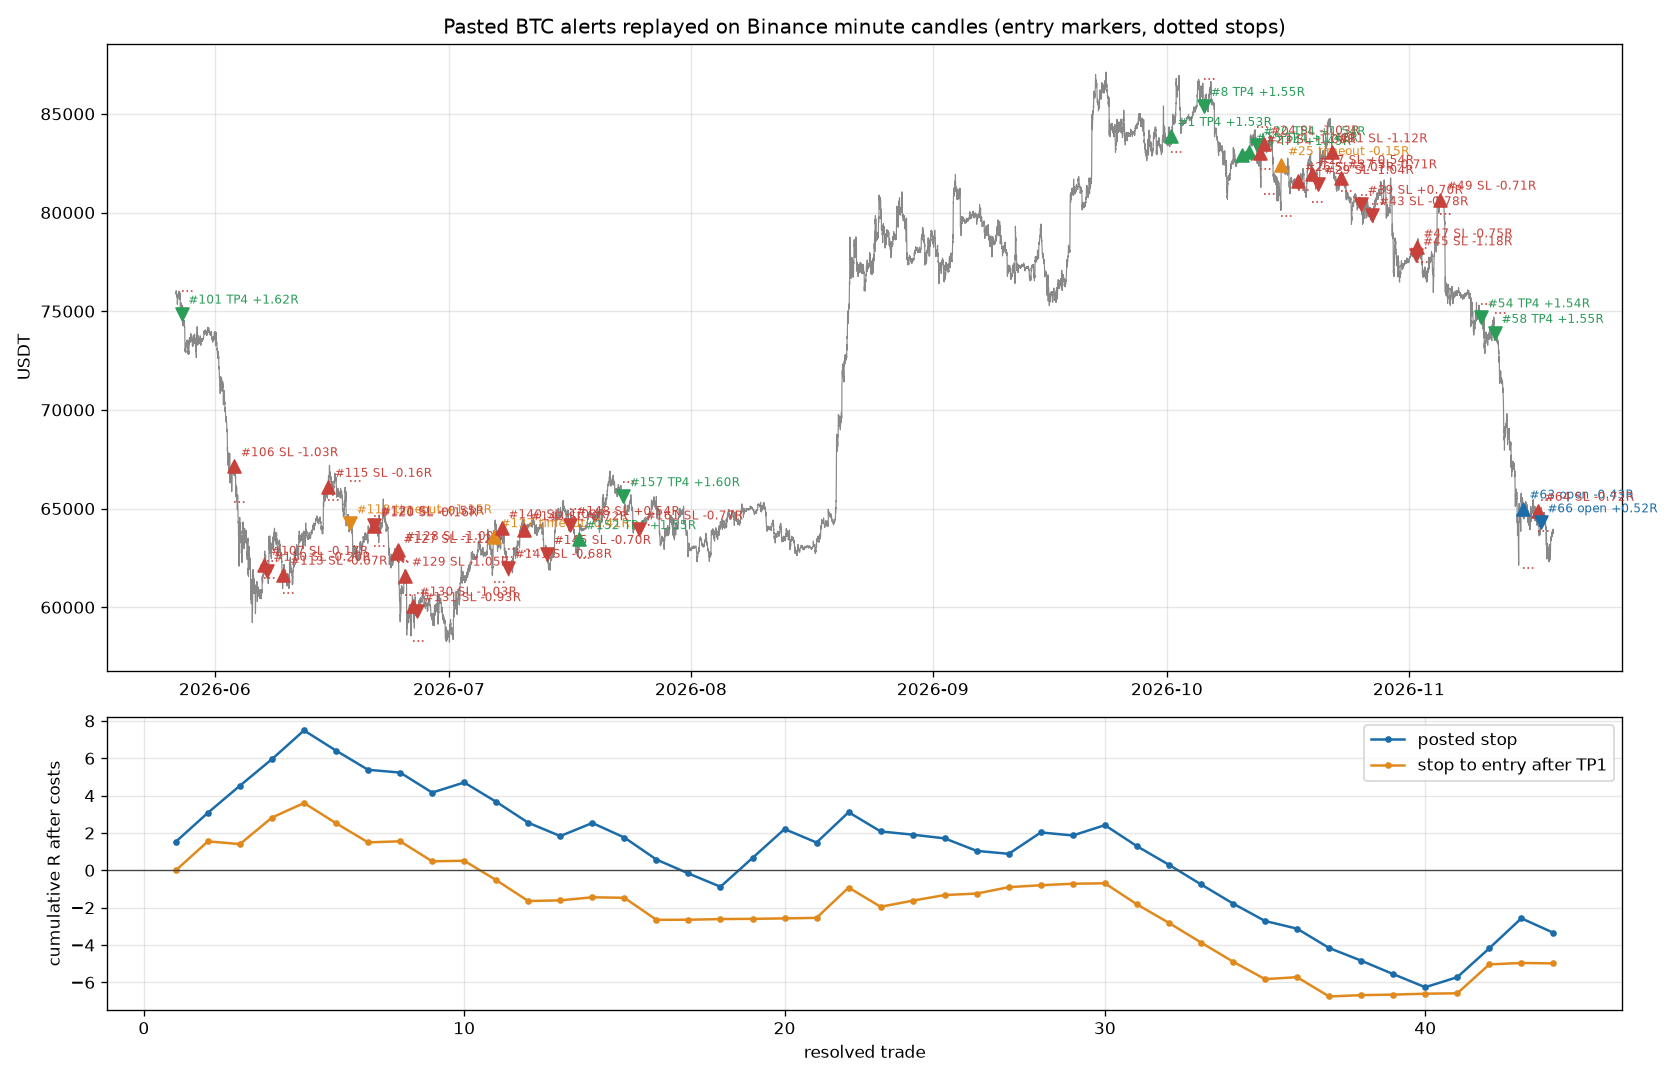
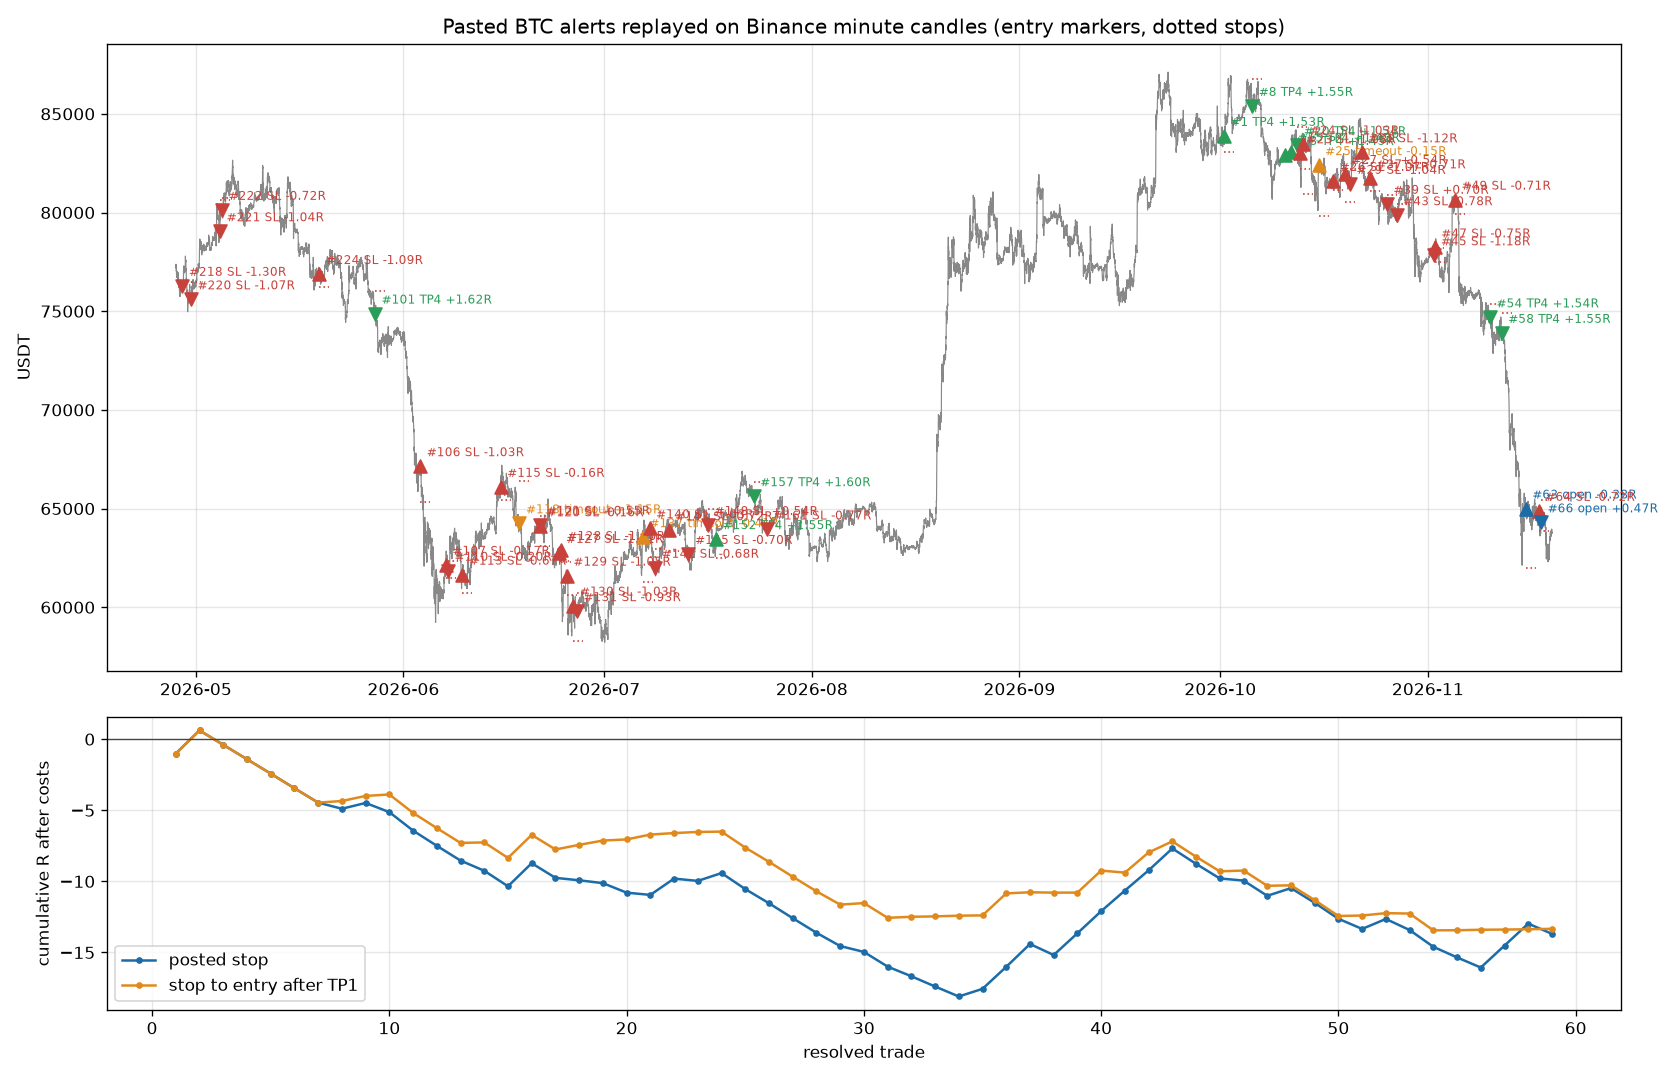
add March-May multi-coin alerts and compare exit rules with random entries

diff --git a/czar_audit.py b/czar_audit.py
@@ -15,7 +15,7 @@ CACHE = Path("data/czar")
 VALID, TIMEOUT = 24 * 3600, 7 * 86400
 MAKER, TAKER, SLIP = 2e-4, 5e-4, 1e-4
 OFFSETS = range(-6, 7)
-RESOLVED = ("SL", "BE", "TP4", "timeout")
+RESOLVED = ("SL", "BE", "TRAIL", "TP4", "timeout")
 
 
 def read(name):
@@ -38,7 +38,7 @@ def hit_stop(bar, side, level):
     return bar.low <= level if side == 1 else bar.high >= level
 
 
-def calibrate(bars, start, alerts, hits):
+def calibrate(markets, alerts, hits):
     """Share of reported hits whose level traded in the 30 minutes before the post, for each display offset."""
     by_id = {a["id"]: a for a in alerts}
     out = {}
@@ -46,6 +46,7 @@ def calibrate(bars, start, alerts, hits):
         ok = 0
         for x in hits:
             a = by_id[x["alert_id"]]
+            bars, start = markets[a["asset"]]
             side, level = (1 if a["side"] == "LONG" else -1), float(a[f"tp{x['target']}"])
             i = (stamp(x["posted_local"], h) - start) // 60
             ok += any(reached(b, side, level) for b in bars[max(0, i - 30):max(0, i + 1)])
@@ -53,8 +54,15 @@ def calibrate(bars, start, alerts, hits):
     return out
 
 
-def replay(bars, start, a, t, breakeven=False, market=False):
-    """One alert: limit entry (or market at the next open), four equal parts at the targets, stop first in shared minutes."""
+MANAGEMENT = {"posted": ((.25,) * 4, "none"), "breakeven": ((.25,) * 4, "be"), "trail": ((.25,) * 4, "step"),
+              "trim_half_be": ((.5, 1 / 6, 1 / 6, 1 / 6), "be"), "trim_half_trail": ((.5, 1 / 6, 1 / 6, 1 / 6), "step")}
+
+
+def replay(bars, start, a, t, breakeven=False, market=False, weights=(.25,) * 4, trail=None):
+    """One alert: limit entry (or market at the next open), parts closed at the four targets, stop first in shared minutes.
+
+    trail "be" moves the stop to entry after target 1; "step" moves it to entry, then target 1, then target 2."""
+    trail = trail or ("be" if breakeven else "none")
     side = 1 if a["side"] == "LONG" else -1
     entry, stop = float(a["entry"]), float(a["stop"])
     tps = [float(a[f"tp{k}"]) for k in range(1, 5)]
@@ -77,18 +85,18 @@ def replay(bars, start, a, t, breakeven=False, market=False):
         b = bars[j]
         if hit_stop(b, side, sl):
             px = min(sl, b.open) if side == 1 else max(sl, b.open)
-            exits += [(px, TAKER + SLIP) for _ in left]
-            status, left = ("SL" if sl == stop else "BE"), []
+            exits += [(weights[k], px, TAKER + SLIP) for k in left]
+            status, left = ("SL" if sl == stop else "BE" if sl == entry else "TRAIL"), []
             break
         if j == fill:
             continue  # targets count from the minute after the fill
         for k in list(left):
             if reached(b, side, tps[k]):
-                exits.append((tps[k], MAKER))
+                exits.append((weights[k], tps[k], MAKER))
                 left.remove(k)
                 best_tp = max(best_tp, k + 1)
-        if breakeven and best_tp:
-            sl = entry
+        if best_tp and trail != "none":
+            sl = entry if trail == "be" or best_tp == 1 else tps[min(best_tp, 3) - 2]
         if not left:
             status = "TP4"
             break
@@ -97,11 +105,11 @@ def replay(bars, start, a, t, breakeven=False, market=False):
             status = "open"
     if left:
         last = bars[min(end, fill + TIMEOUT // 60) - 1].close
-        exits += [(last, TAKER + SLIP) for _ in left]
-    pnl = [side * (px - price) - fee * px - MAKER * price for px, fee in exits]
+        exits += [(weights[k], last, TAKER + SLIP) for k in left]
+    pnl = sum(w * (side * (px - price) - fee * px - MAKER * price) for w, px, fee in exits)
     return dict(status=status, best_tp=best_tp, fill_utc=datetime.fromtimestamp(start + fill * 60, timezone.utc).isoformat(),
-                fill_price=price, r=mean(pnl) / risk, stop_pct=risk / entry * 100,
-                margin_return_20x_pct=mean(pnl) / price * 20 * 100)
+                fill_price=price, r=pnl / risk, stop_pct=risk / entry * 100,
+                margin_return_20x_pct=pnl / price * 20 * 100)
 
 
 def stats(rows, key):
@@ -115,12 +123,51 @@ def stats(rows, key):
                 margin_return_20x_pct_total=sum(r[f"{key}_margin_return_20x_pct"] for r in done))
 
 
+def scaled(a, price):
+    """The alert's stop and target distances re-anchored at another price, for the random baseline."""
+    k = price / float(a["entry"])
+    return {**a, **{f: str(float(a[f]) * k) for f in ("entry", "stop", "tp1", "tp2", "tp3", "tp4")}}
+
+
+def management(markets, alerts, offset, draws=40, seed=1119):
+    """Each exit rule on the alerts (limit and market entry) and on random-time market entries with the same geometry."""
+    rng, out = np.random.default_rng(seed), {}
+    picks = []
+    for a in alerts:
+        bars, first = markets[a["asset"]]
+        hi = len(bars) - (VALID + TIMEOUT) // 60
+        for j in rng.integers(0, max(hi, 1), draws) if hi > 0 else []:
+            picks.append((a, bars, first, int(j)))
+    for name, (w, trail) in MANAGEMENT.items():
+        lim, mkt = [], []
+        for a in alerts:
+            bars, first = markets[a["asset"]]
+            t = stamp(a["posted_local"], offset)
+            lim.append(replay(bars, first, a, t, weights=w, trail=trail))
+            mkt.append(replay(bars, first, a, t, market=True, weights=w, trail=trail))
+        rnd = [replay(bars, first, scaled(a, bars[j + 1].open), first + j * 60, market=True, weights=w, trail=trail)
+               for a, bars, first, j in picks]
+        def summ(rs):
+            done = [r for r in rs if r["status"] in RESOLVED]
+            x = [r["r"] for r in done]
+            boot = np.random.default_rng(seed).choice(x, (5000, len(x))).mean(1)
+            return dict(n=len(x), mean_r=mean(x), mean_r_95=np.percentile(boot, [2.5, 97.5]).tolist(),
+                        profitable_pct=100 * mean(v > 0 for v in x), tp1_pct=100 * mean(r["best_tp"] >= 1 for r in done))
+        out[name] = dict(alerts_limit=summ(lim), alerts_market=summ(mkt), random_market=summ(rnd))
+    return out
+
+
 def main():
     alerts, hits = read("alerts.csv"), read("hits.csv")
-    first = min(stamp(a["posted_local"], 6) for a in alerts) // 86400 * 86400
     now = int(datetime.now(timezone.utc).timestamp()) // 60 * 60 - 120
-    bars, _, digest = interval_data("BTC", first, now, CACHE)
-    fit = calibrate(bars, first, alerts, hits)
+    markets, digests = {}, {}
+    for coin in sorted({a["asset"] for a in alerts}):
+        times = [stamp(a["posted_local"], 0) for a in alerts if a["asset"] == coin]
+        first = (min(times) - 6 * 3600) // 86400 * 86400
+        end = min(now, (max(times) + 6 * 3600 + VALID + TIMEOUT) // 86400 * 86400 + 86400)
+        bars, _, digests[coin] = interval_data(coin, first, end, CACHE)
+        markets[coin] = bars, first
+    fit = calibrate(markets, alerts, hits)
     offset = max(fit, key=fit.get)
     reported = {}
     for x in hits:
@@ -128,11 +175,12 @@ def main():
     rows = []
     for a in alerts:
         t = stamp(a["posted_local"], offset)
+        bars, first = markets[a["asset"]]
         base, be = replay(bars, first, a, t), replay(bars, first, a, t, breakeven=True)
         mk = replay(bars, first, a, t, market=True)
         fill_t = datetime.fromisoformat(base["fill_utc"]).timestamp() if base["fill_utc"] else float("inf")
         early = sum(stamp(x["posted_local"], offset) < fill_t for x in hits if x["alert_id"] == a["id"])
-        rows.append(dict(id=a["id"], posted_utc=datetime.fromtimestamp(t, timezone.utc).isoformat(), side=a["side"],
+        rows.append(dict(id=a["id"], asset=a["asset"], posted_utc=datetime.fromtimestamp(t, timezone.utc).isoformat(), side=a["side"],
                          entry=a["entry"], stop=a["stop"], reported_max_tp=reported.get(a["id"], 0),
                          tp1_r=round(abs(float(a["tp1"]) - float(a["entry"])) / abs(float(a["entry"]) - float(a["stop"])), 3),
                          **{f"posted_stop_{k}": v for k, v in base.items()},
@@ -140,7 +188,7 @@ def main():
                          **{f"breakeven_{k}": be.get(k, 0) for k in ("status", "best_tp", "r", "margin_return_20x_pct")},
                          **{f"market_{k}": mk.get(k, 0) for k in ("status", "best_tp", "r", "margin_return_20x_pct")}))
     write_csv(DIR / "replay.csv", rows)
-    res = dict(source_sha256=digest, through_utc=datetime.fromtimestamp(now, timezone.utc).isoformat(),
+    res = dict(source_sha256=digests, through_utc=datetime.fromtimestamp(now, timezone.utc).isoformat(),
                display_offset_hours=offset, offset_fit=fit, alerts=len(rows),
                fills=sum(bool(r["posted_stop_fill_utc"]) for r in rows),
                status={s: sum(r["posted_stop_status"] == s for r in rows)
@@ -152,13 +200,16 @@ def main():
                reported_hits=len(hits), reported_hits_before_limit_fill=sum(r["reported_hits_before_limit_fill"] for r in rows),
                posted_stop=stats(rows, "posted_stop"), breakeven_after_tp1=stats(rows, "breakeven"),
                market_entry=stats(rows, "market"),
+               btc_only=stats([r for r in rows if r["asset"] == "BTC"], "posted_stop"),
+               other_coins=stats([r for r in rows if r["asset"] != "BTC"], "posted_stop"),
                costs=dict(maker=MAKER, taker=TAKER, slip=SLIP), valid_hours=VALID // 3600, timeout_days=TIMEOUT // 86400)
+    res["management"] = management(markets, alerts, offset)
     save_json(DIR / "results.json", res)
-    plot(bars, first, rows)
+    plot(*markets["BTC"], [r for r in rows if r["asset"] == "BTC"], rows)
     print({k: v for k, v in res.items() if k != "offset_fit"}, "\nfit", {k: round(v, 2) for k, v in fit.items()})
 
 
-def plot(bars, start, rows):
+def plot(bars, start, rows, every):
     import matplotlib
     matplotlib.use("Agg")
     import matplotlib.pyplot as plt
@@ -178,7 +229,7 @@ def plot(bars, start, rows):
                        xytext=(4, 6), textcoords="offset points", fontsize=7, color=c)
     ax[0].set(title="Pasted BTC alerts replayed on Binance minute candles (entry markers, dotted stops)", ylabel="USDT")
     for key, col, name in (("posted_stop", "#1b6ca8", "posted stop"), ("breakeven", "#e08a1e", "stop to entry after TP1")):
-        rs = [r[f"{key}_r"] for r in rows if r[f"{key}_status"] in RESOLVED]
+        rs = [r[f"{key}_r"] for r in sorted(every, key=lambda r: r["posted_utc"]) if r[f"{key}_status"] in RESOLVED]
         ax[1].plot(range(1, len(rs) + 1), np.cumsum(rs), marker=".", color=col, label=name)
     ax[1].axhline(0, color="#444", lw=.8)
     ax[1].set(xlabel="resolved trade", ylabel="cumulative R after costs")

diff --git a/test_czar_audit.py b/test_czar_audit.py
@@ -38,6 +38,16 @@ class CzarAuditTest(unittest.TestCase):
         b = bars([(104, 106), (99, 101), (100, 104), (99.5, 101)])
         self.assertEqual(C.replay(b, 0, ALERT, 0, breakeven=True)["status"], "BE")
 
+    def test_trim_half_at_tp1_then_trailing_stop(self):
+        b = bars([(104, 106), (99, 101), (100, 107), (102.5, 104)])
+        r = C.replay(b, 0, ALERT, 0, weights=(.5, 1 / 6, 1 / 6, 1 / 6), trail="step")
+        self.assertEqual((r["status"], r["best_tp"]), ("TRAIL", 2))
+        self.assertAlmostEqual(r["r"], .5 * .3 + .6 / 6 + 2 * .3 / 6)
+
+    def test_scaled_geometry_keeps_r_multiples(self):
+        s = C.scaled(ALERT, 200)
+        self.assertAlmostEqual((float(s["tp1"]) - float(s["entry"])) / (float(s["entry"]) - float(s["stop"])), .3)
+
     def test_unfilled_limit_expires_but_market_entry_fills(self):
         b = bars([(104, 106)] * (C.VALID // 60 + 3))
         self.assertEqual(C.replay(b, 0, ALERT, 0)["status"], "expired")
